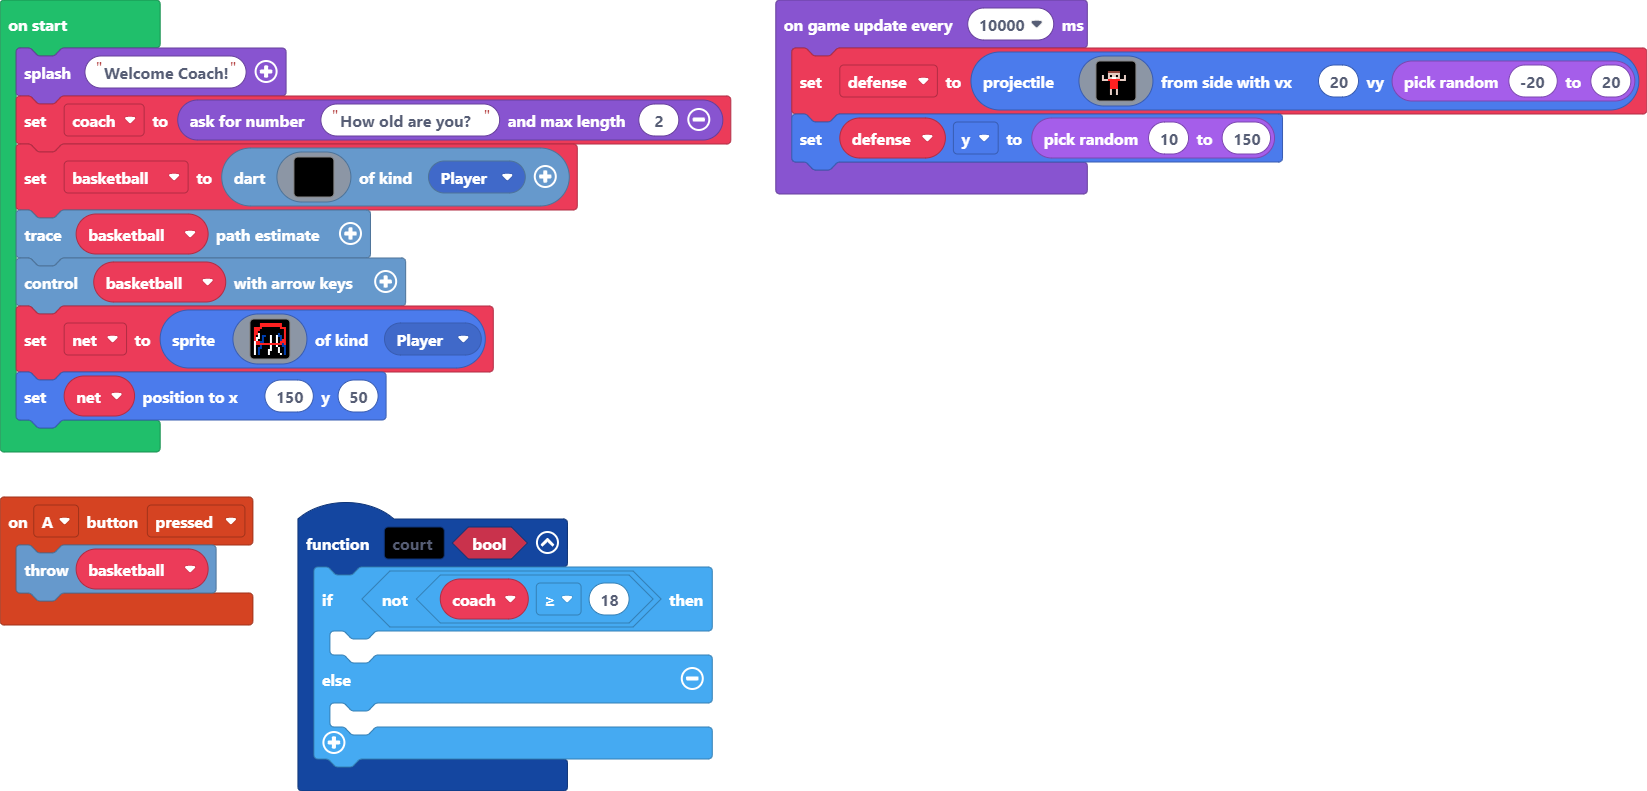
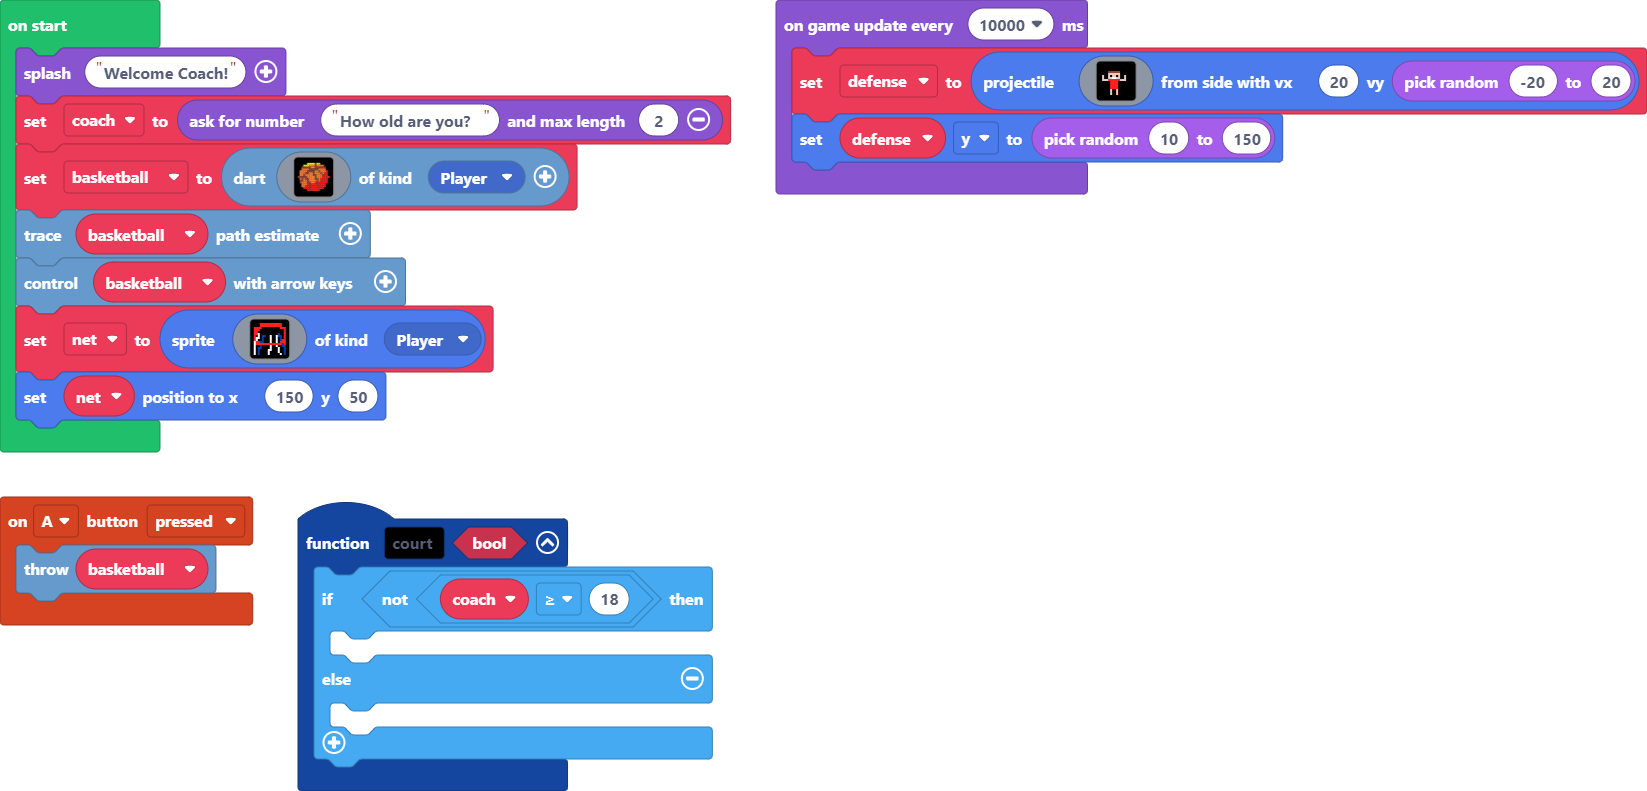
Update main.blocks, main.ts

diff --git a/main.ts b/main.ts
@@ -14,22 +14,23 @@ let coach = 0
 game.splash("Welcome Coach!")
 coach = game.askForNumber("How old are you?", 2)
 basketball = darts.create(img`
-    . . . . . . . . . . . . . . . . 
-    . . . . . . . . . . . . . . . . 
-    . . . . . . . . . . . . . . . . 
-    . . . . . . . . . . . . . . . . 
-    . . . . . . . . . . . . . . . . 
-    . . . . . . . . . . . . . . . . 
-    . . . . . . . . . . . . . . . . 
-    . . . . . . . . . . . . . . . . 
-    . . . . . . . . . . . . . . . . 
-    . . . . . . . . . . . . . . . . 
-    . . . . . . . . . . . . . . . . 
-    . . . . . . . . . . . . . . . . 
-    . . . . . . . . . . . . . . . . 
-    . . . . . . . . . . . . . . . . 
-    . . . . . . . . . . . . . . . . 
-    . . . . . . . . . . . . . . . . 
+    . . . . . f f f f f f f . . . . . 
+    . . . f f 5 5 5 5 e 5 5 f f . . . 
+    . . f 5 5 5 4 4 4 e 4 4 4 4 f . . 
+    . f e e e e e 4 4 e e e e e e f . 
+    . f 4 4 4 4 e e e e e 4 4 4 4 f . 
+    f 4 4 4 4 e e e e 4 4 e 4 4 4 2 f 
+    f 4 4 4 e e 4 4 e 4 4 4 e 4 2 2 f 
+    f 4 4 e 4 4 4 4 e e 4 4 4 e e 2 f 
+    e e e e e 4 4 4 4 e 4 4 4 2 2 e 2 
+    f 4 e 4 e e 4 4 4 e e 4 2 2 2 2 f 
+    f e e 4 4 e 4 4 4 4 e 4 2 2 2 2 f 
+    f e 4 4 4 e e 4 4 2 e 2 2 2 2 2 f 
+    . f 4 4 4 2 e 2 2 2 e 2 2 2 2 f . 
+    . f 4 4 2 2 e 2 2 2 2 e 2 2 2 f . 
+    . . f 2 2 2 e 2 2 2 2 e 2 2 f . . 
+    . . . f f 2 e e 2 2 2 e f f . . . 
+    . . . . . f f f f f f f . . . . . 
     `, SpriteKind.Player)
 basketball.setTrace()
 basketball.controlWithArrowKeys()
